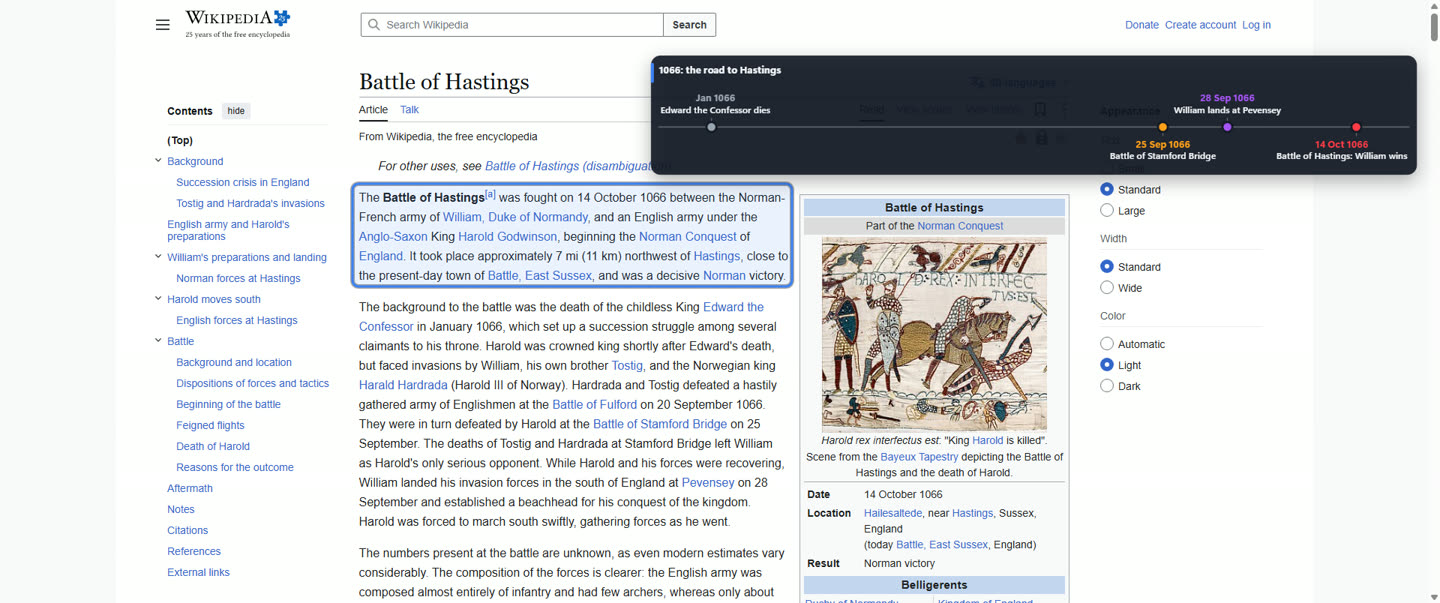
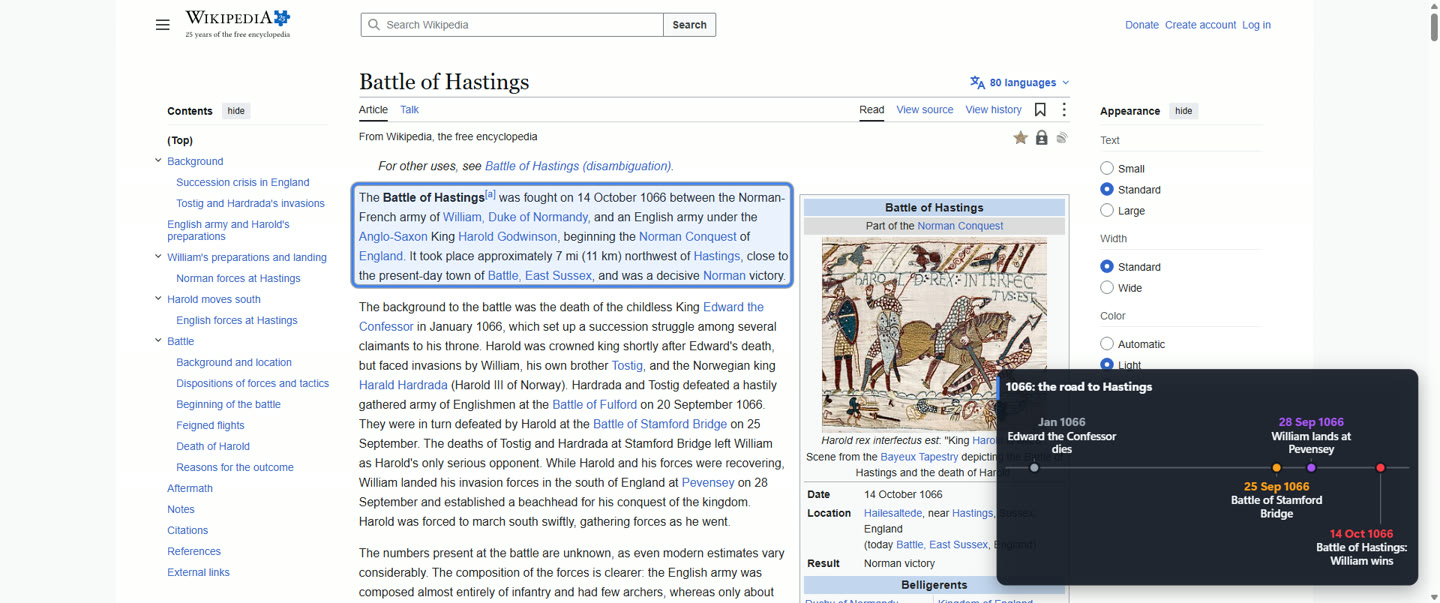
README: retake the flow, timeline and guide frames from the fixed layout and a live guide answer; credit the pages; privacy line says pinning

Changed region(s): [[0.4375, 0.0896, 1.0, 0.3284], [0.6875, 0.597, 1.0, 1.0]]

diff --git a/README.md b/README.md
@@ -10,7 +10,7 @@ Hold a key and ask out loud. Talkthrough looks at your screen, points at what ma
 
 - **Works in any app or website:** no tutorial in another window.
 - **Open source (MIT).** You choose how it runs your model (see [Choose how it runs your model](#choose-how-it-runs-your-model)).
-- **Private:** in normal use Talkthrough itself writes nothing about your screen or questions to disk (saving an answer to come back to is planned).
+- **Private:** in normal use Talkthrough itself writes nothing about your screen or questions to disk unless you pin an answer.
 - **Safe:** it draws, it never runs generated code.
 
 > **Status: pre-release, Windows first.** The whole loop runs: hotkey, microphone, screen capture, a model through your own Codex or Claude Code install, the scene language and the three.js overlay, including guided walks that wait for your click. It needs a local speech recogniser you point it at (see [setup](docs/setup.md)). See [Status](#status) for exactly what exists today.
@@ -38,7 +38,7 @@ Everything below is drawn by the overlay from a small JSON scene a model writes.
 
 ![Guide mode: a checklist of the moves ticks off as you make each click.](docs/media/frame-guide.jpg)
 
-*Frames from live answers replayed over the pages they were asked about; in the guide frame the checklist is hand-written.*
+*Frames from live answers replayed over the pages they were asked about. Page content from Wikipedia and Wikibooks (CC BY-SA 4.0), shown for illustration.*
 
 See [the scene language](docs/scene-language.md) for everything a model may draw and [the overlay notes](docs/overlay.md) for how it is drawn.
 
